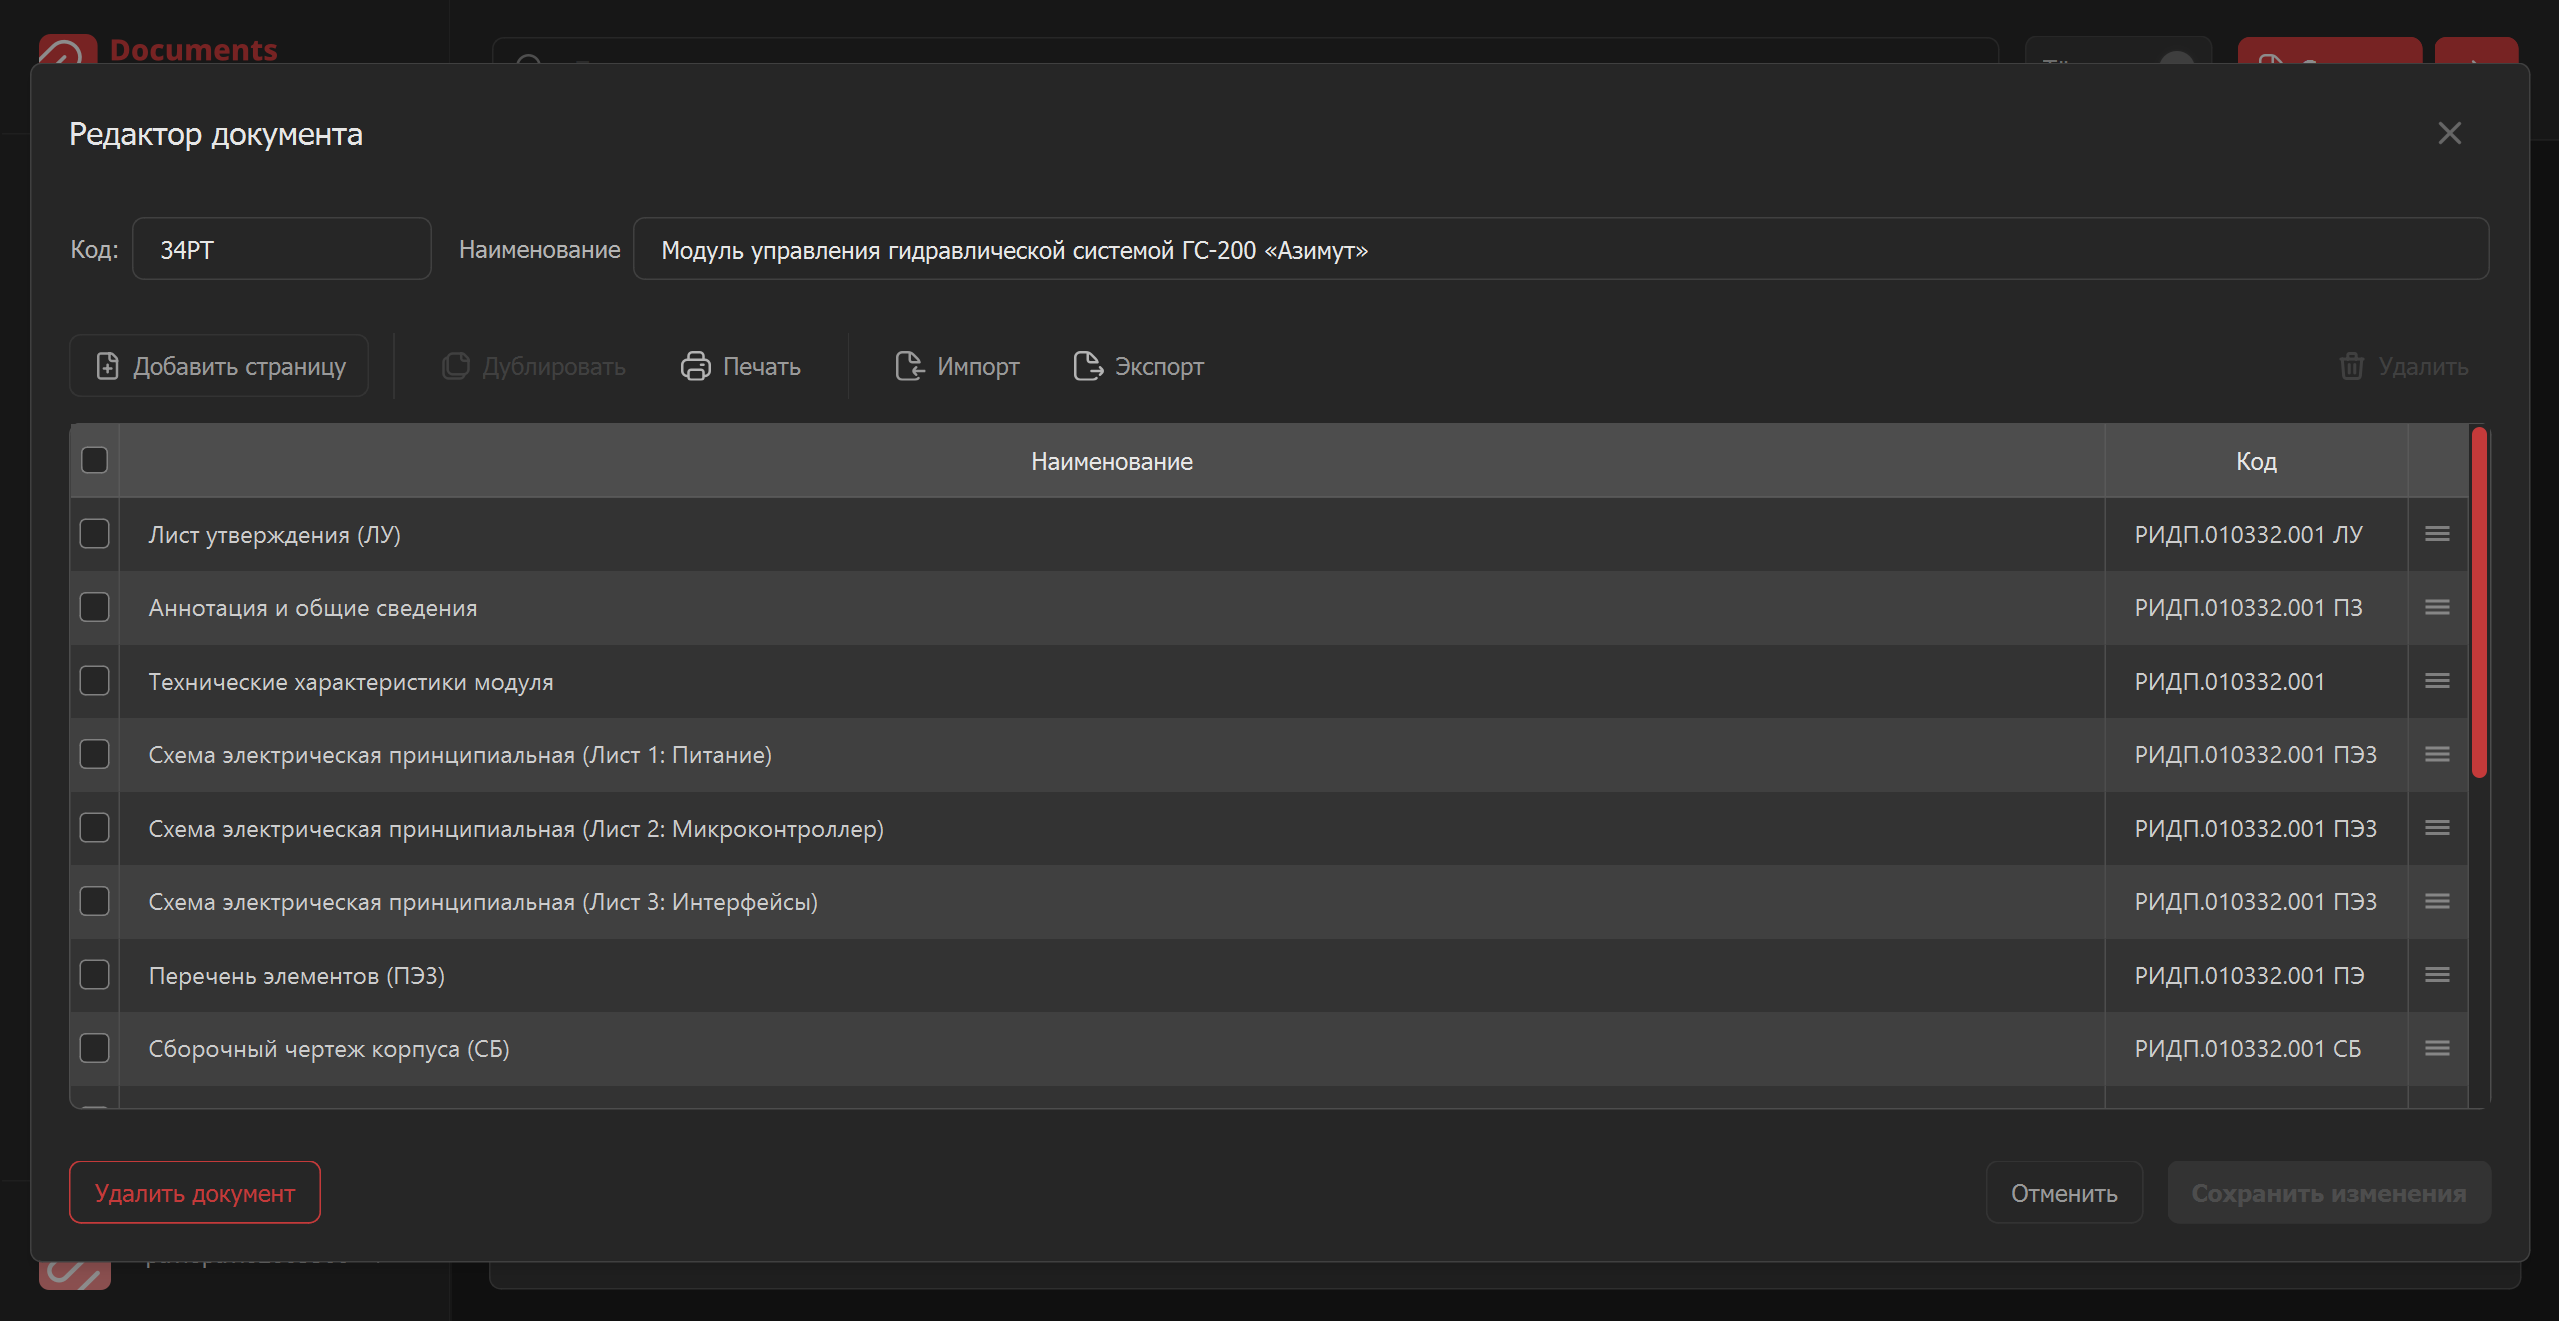
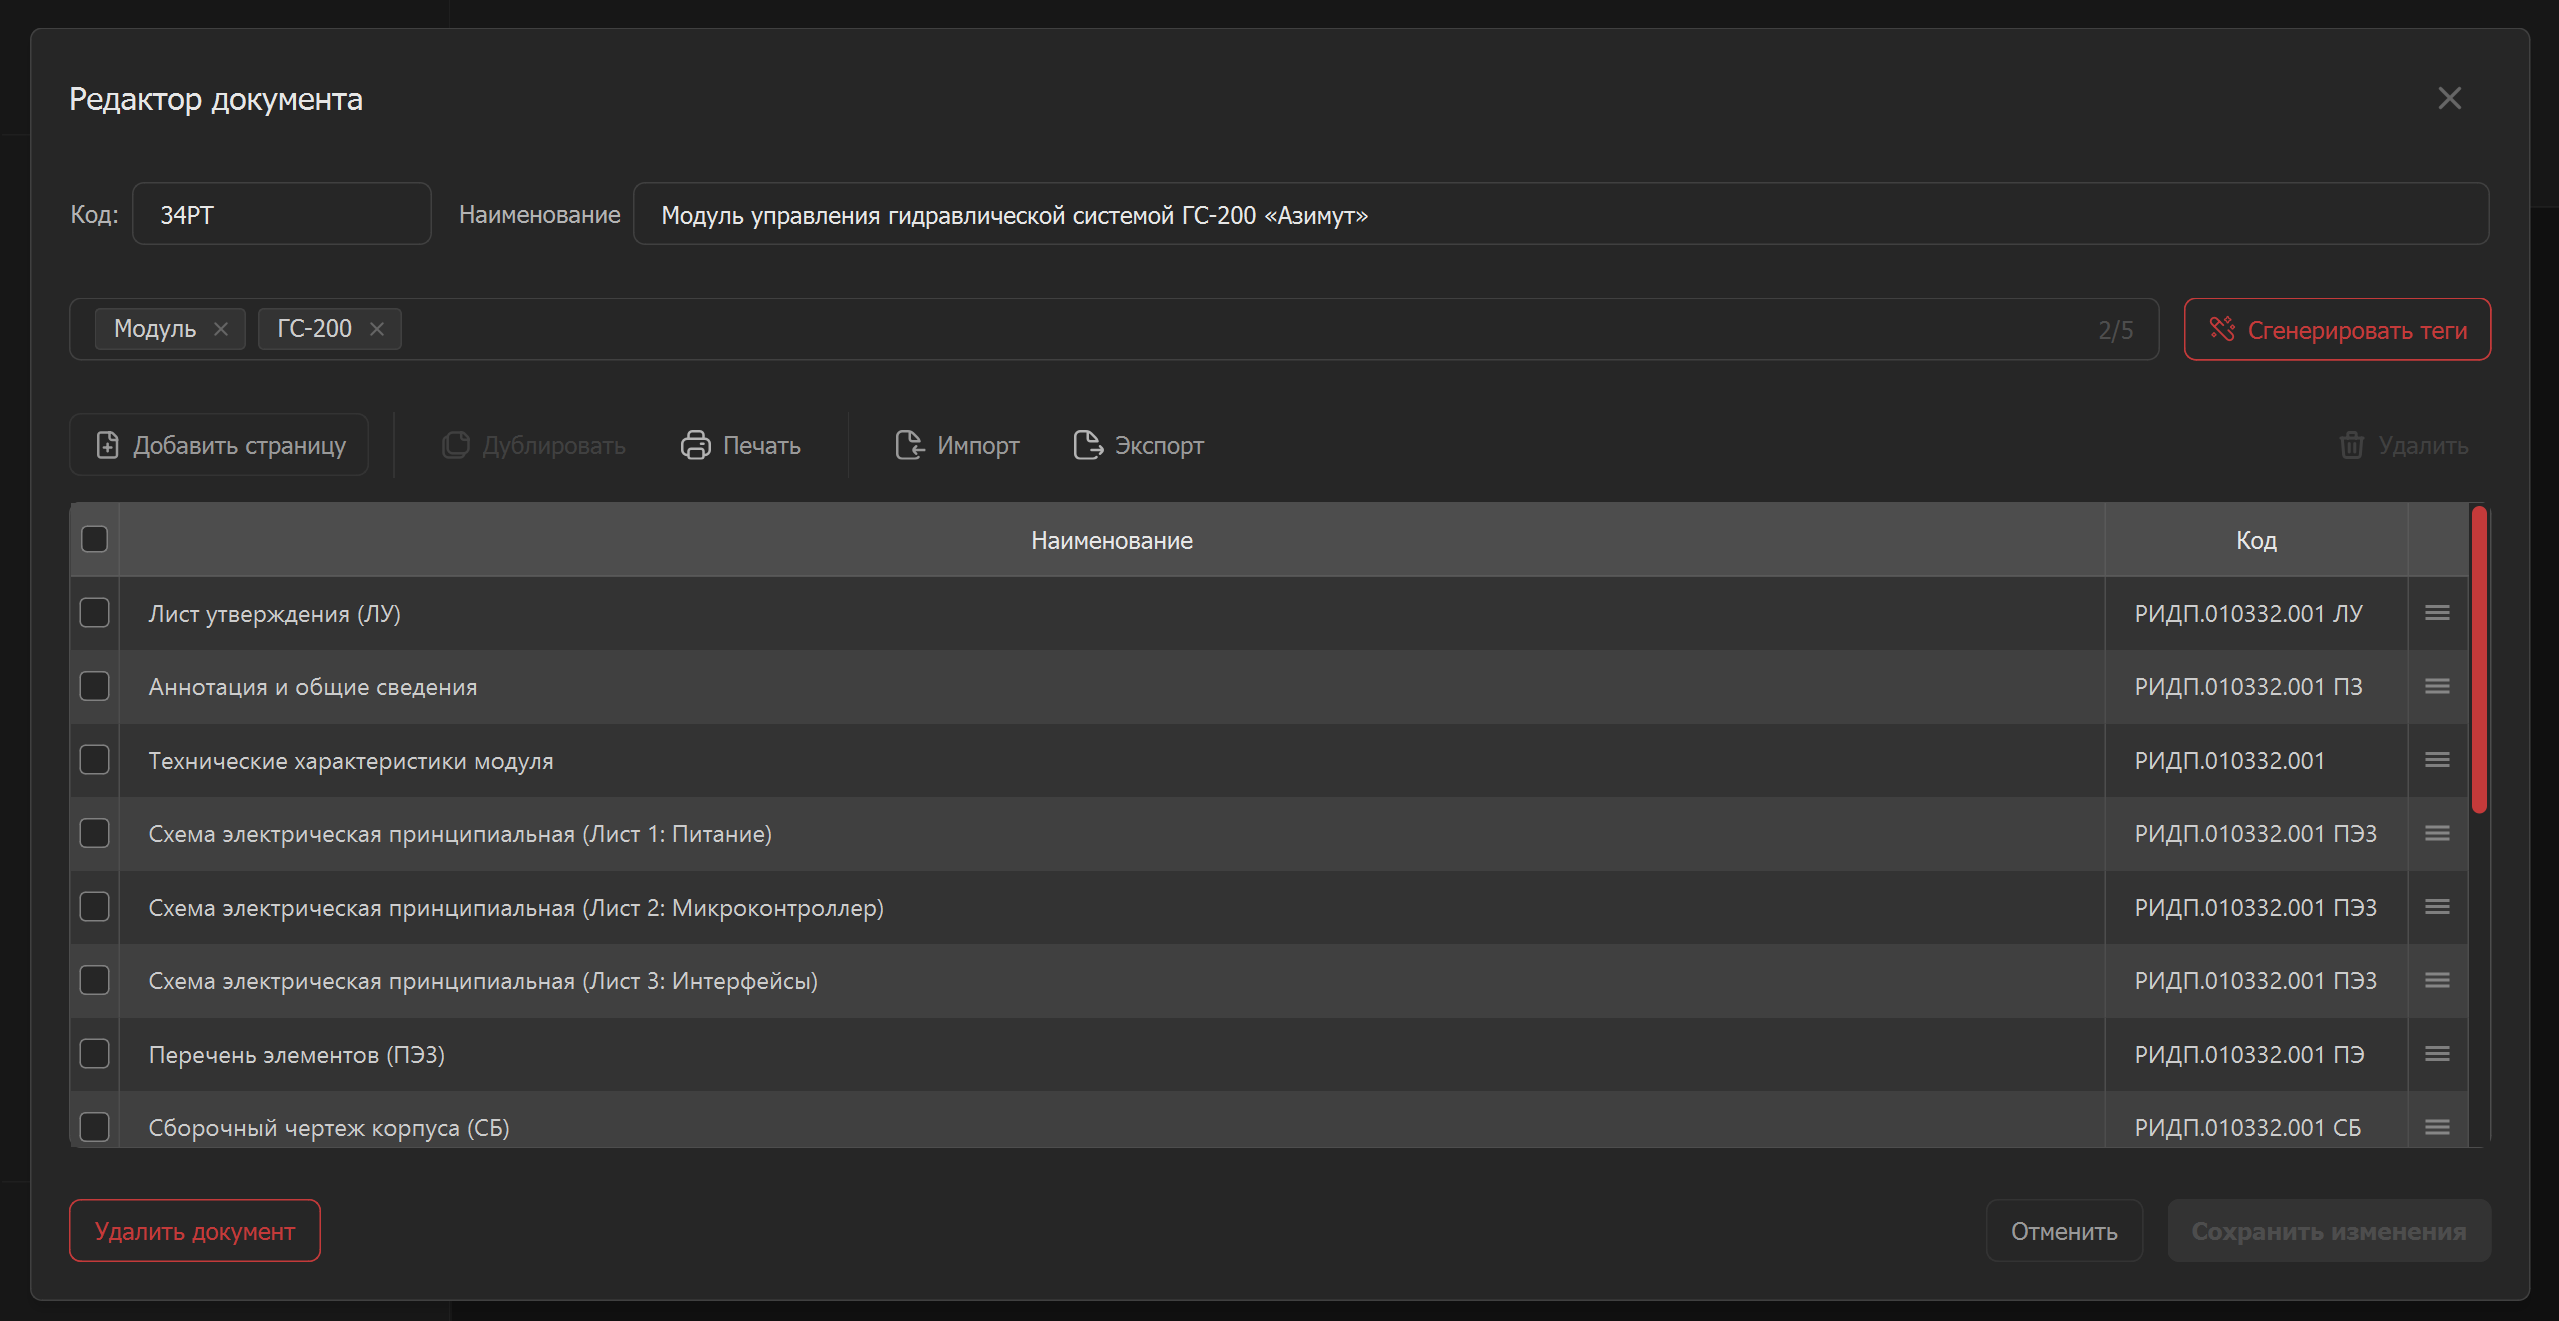
docs: update README files for new version and fix compilation errors

diff --git a/utils/theme_manager.py b/utils/theme_manager.py
@@ -6,6 +6,7 @@ from pathlib import Path
 from jinja2 import Template
 from PyQt5.QtWidgets import QApplication
 from PyQt5.QtCore import pyqtSignal, QObject
+from utils.app_paths import get_app_root
 
 
 logger = logging.getLogger(__name__)
@@ -105,7 +106,7 @@ class ThemeManager(QObject):
         """
 
         try:
-            with open("config.yaml", "r", encoding="utf-8") as f:
+            with open(get_app_root() / "config.yaml", "r", encoding="utf-8") as f:
                 base_config = yaml.safe_load(f)
 
             path = base_config.get("ui_config_path")
@@ -113,7 +114,7 @@ class ThemeManager(QObject):
                 logger.error("ui_config_path not found in config.yaml.")
                 return {}
 
-            with open(path, "r", encoding="utf-8") as f:
+            with open(get_app_root() / path, "r", encoding="utf-8") as f:
                 ui_config = json.load(f)
 
             return ui_config or {}
@@ -144,7 +145,7 @@ class ThemeManager(QObject):
             return
 
         theme_name = self.themes[self.current_theme_id]
-        themes_path = Path(self.ui_config["paths"]["themes_path"])
+        themes_path = get_app_root() / self.ui_config["paths"]["themes_path"]
         theme_file = themes_path / f"{theme_name}.qss"
 
         try:
@@ -185,7 +186,7 @@ class ThemeManager(QObject):
             logger.error(f"Theme ID '{theme_id}' not found.")
             return False
 
-        themes_path = Path(self.ui_config["paths"]["themes_path"])
+        themes_path = get_app_root() / self.ui_config["paths"]["themes_path"]
         if not themes_path.exists():
             logger.error(f"Themes directory missing: {themes_path}")
             return False
@@ -221,12 +222,12 @@ class ThemeManager(QObject):
         """
 
         try:
-            t_path = Path(self.ui_config["paths"]["templates_path"])
+            t_path = get_app_root() / self.ui_config["paths"]["templates_path"]
             if not t_path.exists():
                 logger.error(f"Templates folder does not exist: {t_path}")
                 return False
 
-            themes_path = Path(self.ui_config["paths"]["themes_path"])
+            themes_path = get_app_root() / self.ui_config["paths"]["themes_path"]
             themes_path.mkdir(parents=True, exist_ok=True)
 
             templates = list(t_path.glob("*.j2"))

diff --git a/modules/main/mvc/main_view.py b/modules/main/mvc/main_view.py
@@ -7,6 +7,7 @@ from PyQt5.QtCore import QEvent, Qt, QObject, QPoint, QItemSelectionModel
 
 from ui import MainWindow_UI
 from utils import ThemeManagerInstance
+from utils.app_paths import get_app_root
 from ui.custom_widgets import (
     SidebarItem,
     SidebarBlock,
@@ -1063,9 +1064,7 @@ class MainView(QObject):
             A dictionary containing the UI configuration, or an empty dict if loading fails.
         """
         try:
-            # Resolve path relative to this file location
-            root_dir = Path(__file__).resolve().parents[3]
-            config_path = root_dir / "ui" / "ui_config.json"
+            config_path = get_app_root() / "ui" / "ui_config.json"
             
             with open(config_path, "r", encoding="utf-8") as f:
                 return json.load(f)

diff --git a/modules/document_editor/mvc/document_editor_view.py b/modules/document_editor/mvc/document_editor_view.py
@@ -8,6 +8,7 @@ from ui.custom_widgets import (
     NoFrameButton, PrimaryButton, TertiaryButton
 )
 from utils import ThemeManagerInstance
+from utils.app_paths import get_app_root
 
 
 ROLE_CHECK_STATE = Qt.UserRole + 1
@@ -475,9 +476,7 @@ class DocumentEditorView:
             A dictionary containing the UI configuration, or an empty dict if loading fails.
         """
         try:
-            # Resolve path relative to this file location
-            root_dir = Path(__file__).resolve().parents[3]
-            config_path = root_dir / "ui" / "ui_config.json"
+            config_path = get_app_root() / "ui" / "ui_config.json"
             
             with open(config_path, "r", encoding="utf-8") as f:
                 return json.load(f)

diff --git a/utils/app_paths.py b/utils/app_paths.py
@@ -3,6 +3,17 @@ from pathlib import Path
 
 APP_NAME = "Documents Exp"
 
+def get_app_root() -> Path:
+    """Returns the root directory of the application."""
+    if getattr(sys, 'frozen', False):
+        # Running as compiled exe
+        if hasattr(sys, '_MEIPASS'):
+            return Path(sys._MEIPASS)
+        return Path(sys.executable).parent
+    else:
+        # Running from source: utils/.. -> root
+        return Path(__file__).resolve().parent.parent
+
 def get_app_data_dir() -> Path:
     """
     Returns the path to the roaming application data directory (Profiles, etc).

diff --git a/utils/file_utils.py b/utils/file_utils.py
@@ -2,6 +2,7 @@ import json
 import yaml
 import logging
 from pathlib import Path
+from utils.app_paths import get_app_root
 
 def load_config() -> dict:
     """
@@ -11,7 +12,7 @@ def load_config() -> dict:
         dict: The configuration dictionary.
     """
     try:
-        config_path = Path(Path.cwd(), "config.yaml")
+        config_path = get_app_root() / "config.yaml"
         with open(config_path, 'r') as file:
             return yaml.safe_load(file)
     except FileNotFoundError:

diff --git a/api/api_client.py b/api/api_client.py
@@ -8,7 +8,7 @@ class APIClient:
         Args:
             base_url (str): The base URL for the API.
         """
-        self.base_url = base_url.rstrip("/")
+        self.base_url = (base_url or "").rstrip("/")
         self.session = requests.Session()
 
 

diff --git a/README_RU.md b/README_RU.md
@@ -34,6 +34,33 @@
 
 ---
 
+## 💡 Что нового (v1.1.0) - Теги и Фильтры
+
+Это обновление добавляет мощные инструменты для организации и поиска документов.
+
+### 🏷 Система тегов
+
+- **Теги документов:** Теперь можно присваивать теги документам для лучшей категоризации.
+- **Автогенерация:** Возможность автоматической генерации тегов на основе содержимого документа.
+- **Поиск по тегам:** Быстрый поиск документов по клику на тег или при вводе `@тег` в строку поиска.
+
+### 🔍 Фильтры поиска
+
+Добавлено меню фильтров для уточнения результатов поиска:
+
+- **Объекты поиска:** Возможность включить или исключить страницы документов из поиска.
+- **Поля поиска:** Фильтрация по Наименованию или Коду.
+- **Режим совпадения:** Опция точного совпадения для конкретных запросов.
+
+### ⚡ Также в этом обновлении
+
+- **Категория "Все документы":** Возможность создания виртуальной категории, объединяющей все документы отдела.
+- **Видимость для гостей:** Настройка видимости отделов и категорий для пользователей в гостевом режиме.
+- **Подсказки пароля:** Новый интерактивный виджет с требованиями к паролю при регистрации и смене пароля.
+- **Улучшения UI:** Небольшие визуальные улучшения и исправления ошибок.
+
+---
+
 ## 📌 Обзор
 
 **Documents Exp** разработано для оптимизации управления технической документацией в организации. Приложение предоставляет структурированное представление документов по отделам и категориям, а также обеспечивает эффективный поиск и редактирование.
@@ -166,7 +193,27 @@
 
 ---
 
-## 📂 Структура проекта
+## 📦 Компиляция
+
+Для сборки приложения в исполняемый файл (EXE):
+
+1. Установите PyInstaller:
+
+    ```bash
+    pip install pyinstaller
+    ```
+
+2. Запустите сборку, используя готовый spec-файл:
+
+    ```bash
+    pyinstaller "Documents Exp.spec"
+    ```
+
+3. Скомпилированное приложение будет находиться в папке `dist/Documents Exp`.
+
+---
+
+## � Структура проекта
 
 ```
 DOCUMENTS-EXP-DESKTOP/

diff --git a/README.md b/README.md
@@ -34,6 +34,33 @@ Allows authorized users to create, edit, and manage document pages. Supports dra
 
 ---
 
+## 💡 What's New (v1.1.0) - Tags & Filters
+
+This update brings powerful new ways to organize and find your documents.
+
+### 🏷 Tags System
+
+- **Document Tags:** You can now assign tags to documents for better categorization.
+- **Auto-generation:** Automatically generate relevant tags based on document content.
+- **Search by Tags:** Quickly find documents by clicking on tags or typing `@tagname` in the search bar.
+
+### 🔍 Search Filters
+
+A new search filter menu has been added to refine your search results:
+
+- **Search Targets:** Option to include or exclude document pages from search results.
+- **Search Fields:** Filter by Name or Code.
+- **Match Mode:** Toggle exact match for precise queries.
+
+### ⚡ Also in this update
+
+- **"All Documents" Category:** Option to create a virtual category that aggregates all documents within a department.
+- **Guest Visibility:** Granular control over the visibility of departments and categories for guest users.
+- **Password Hints:** New interactive password strength hint widget during registration and password change.
+- **UI Improvements:** Minor visual enhancements and bug fixes.
+
+---
+
 ## 📌 Overview
 
 **Documents Exp** is designed to streamline the management of technical documentation within an organization. It provides a structured view of documents categorized by departments and allows for efficient searching and editing.
@@ -163,6 +190,26 @@ The project follows the **MVC (Model-View-Controller)** pattern to ensure separa
     ```bash
     python app.py
     ```
+
+---
+
+## 📦 Compilation
+
+To build the application into an executable file (EXE):
+
+1. Install PyInstaller:
+
+    ```bash
+    pip install pyinstaller
+    ```
+
+2. Run the build command using the provided spec file:
+
+    ```bash
+    pyinstaller "Documents Exp.spec"
+    ```
+
+3. The compiled application will be available in the `dist/Documents Exp` directory.
 
 ---
 
